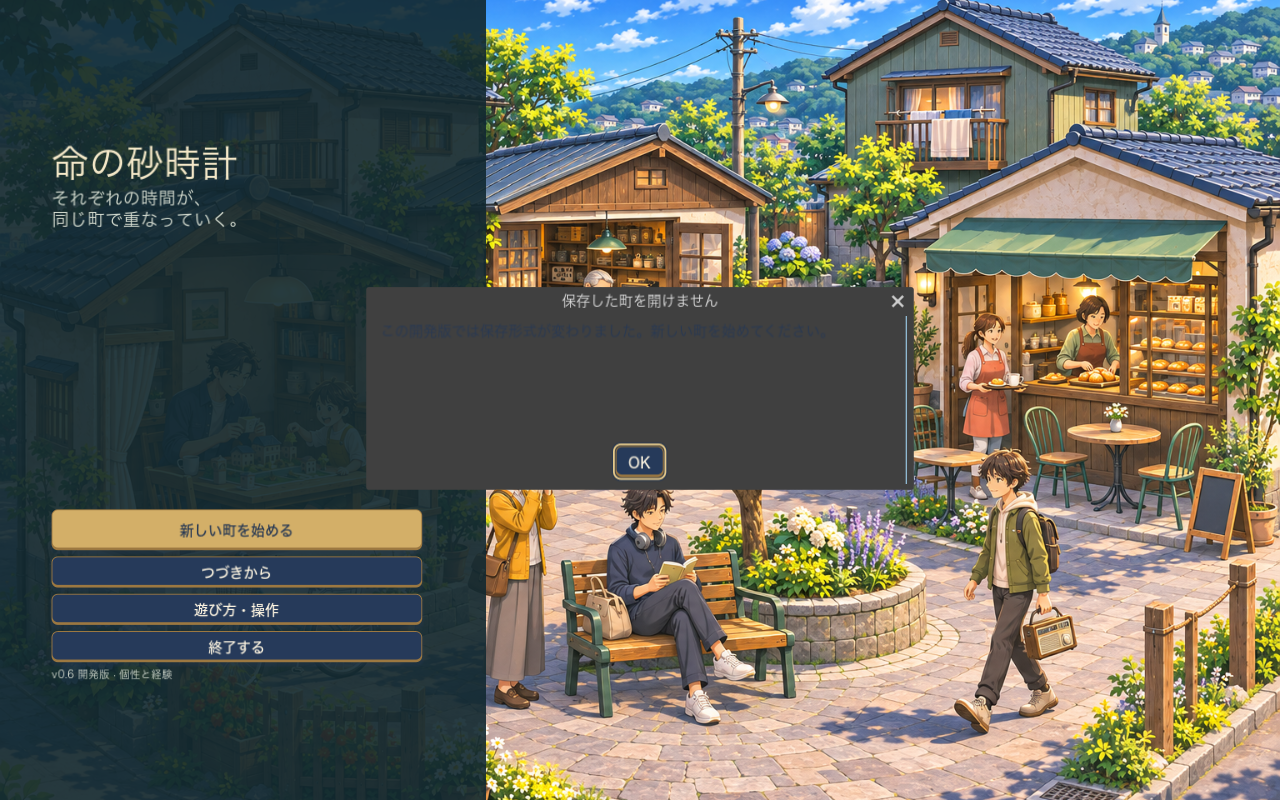
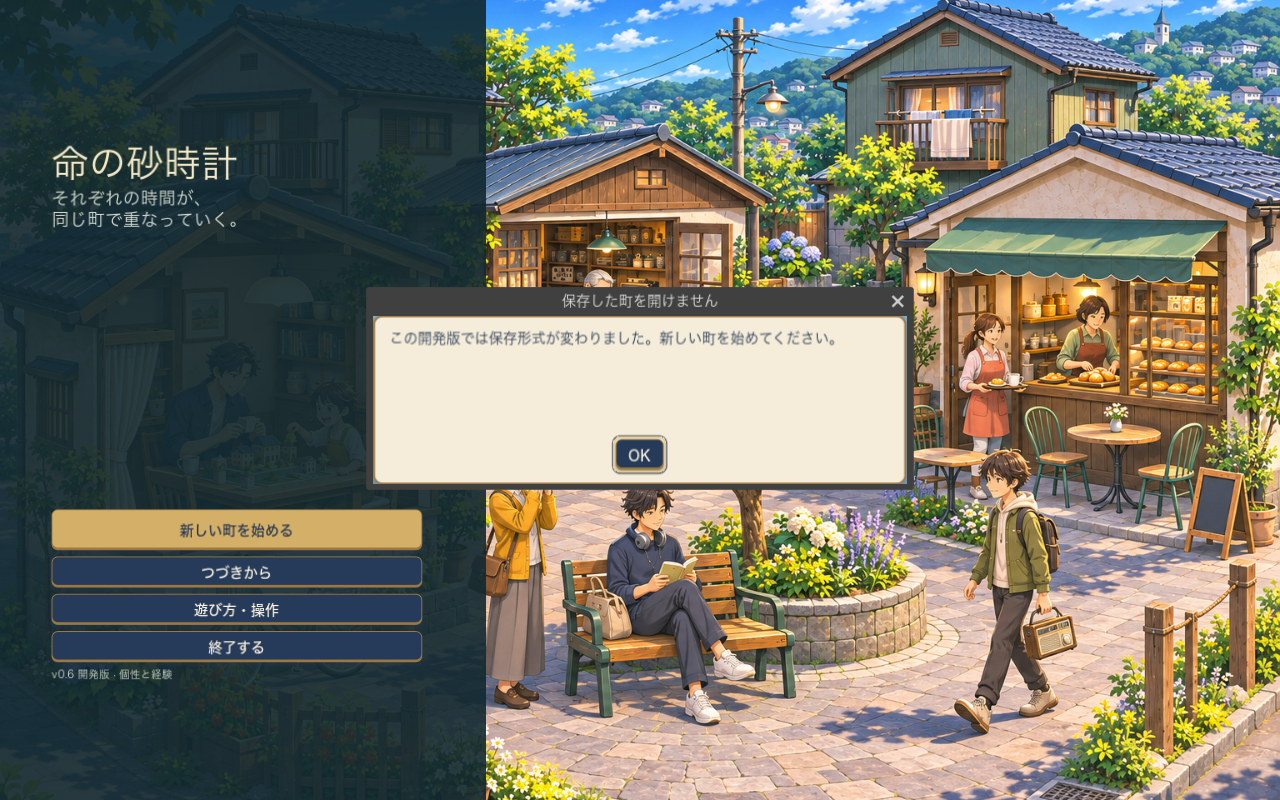
Keep title-screen dialog text readable on the paper theme

Changed region(s): [[0.2812, 0.375, 0.7188, 0.625]]

diff --git a/docs/verification/motion-20261104/README.md b/docs/verification/motion-20261104/README.md
@@ -36,7 +36,7 @@
 
 広場の近距離移動が机を横断する問題も修正し、実配置したベンチから机への往復を、体幅を含む5mm間隔の線分採取と実移動で確認した。遮られた近道は街路と家具の角を回り、通れる近道は保つ。人同士の混雑・譲り合いまで解決したとはしない。
 
-保存はschema7。開発中は下位互換を捨ててよいという方針に従い、旧配置の保存を現在の遊び専用机へ戻さず、読み込みを拒否して新しい町の開始を案内する。現在の形式では各工程からの保存・再開、保持者の死去・退出、結果の一度だけの記録を検査している。実配布アプリで旧保存の案内がタイトル裏のHUDへ隠れる問題を見つけ、タイトル上のダイアログへ変更した。[headless/GPU各6件の確認](load-results.json)は隔離した旧形式/現行形式の保存を実際の「つづきから」の処理で開き、案内の可視性、町と保存内容の保全、現行保存の成功を確認する。
+保存はschema7。開発中は下位互換を捨ててよいという方針に従い、旧配置の保存を現在の遊び専用机へ戻さず、読み込みを拒否して新しい町の開始を案内する。現在の形式では各工程からの保存・再開、保持者の死去・退出、結果の一度だけの記録を検査している。実配布アプリで旧保存の案内がタイトル裏のHUDへ隠れる問題を見つけ、タイトル上のダイアログへ変更した。[headless/GPU各7件の確認](load-results.json)は隔離した旧形式/現行形式の保存を実際の「つづきから」の処理で開き、案内の可視性と文字/背景の明暗差、町と保存内容の保全、現行保存の成功を確認する。
 
 画面の「−」「＋」「町の全景」とピンチ/パン入力、停止中のカメラ、UI上での遮断を追加した。[実画面のUI統合](scene-ui-gpu.log)は共同作業の実返却まで確認。物理トラックパッドによるピンチ/パンは未確認であり、合成入力と区別する。
 
